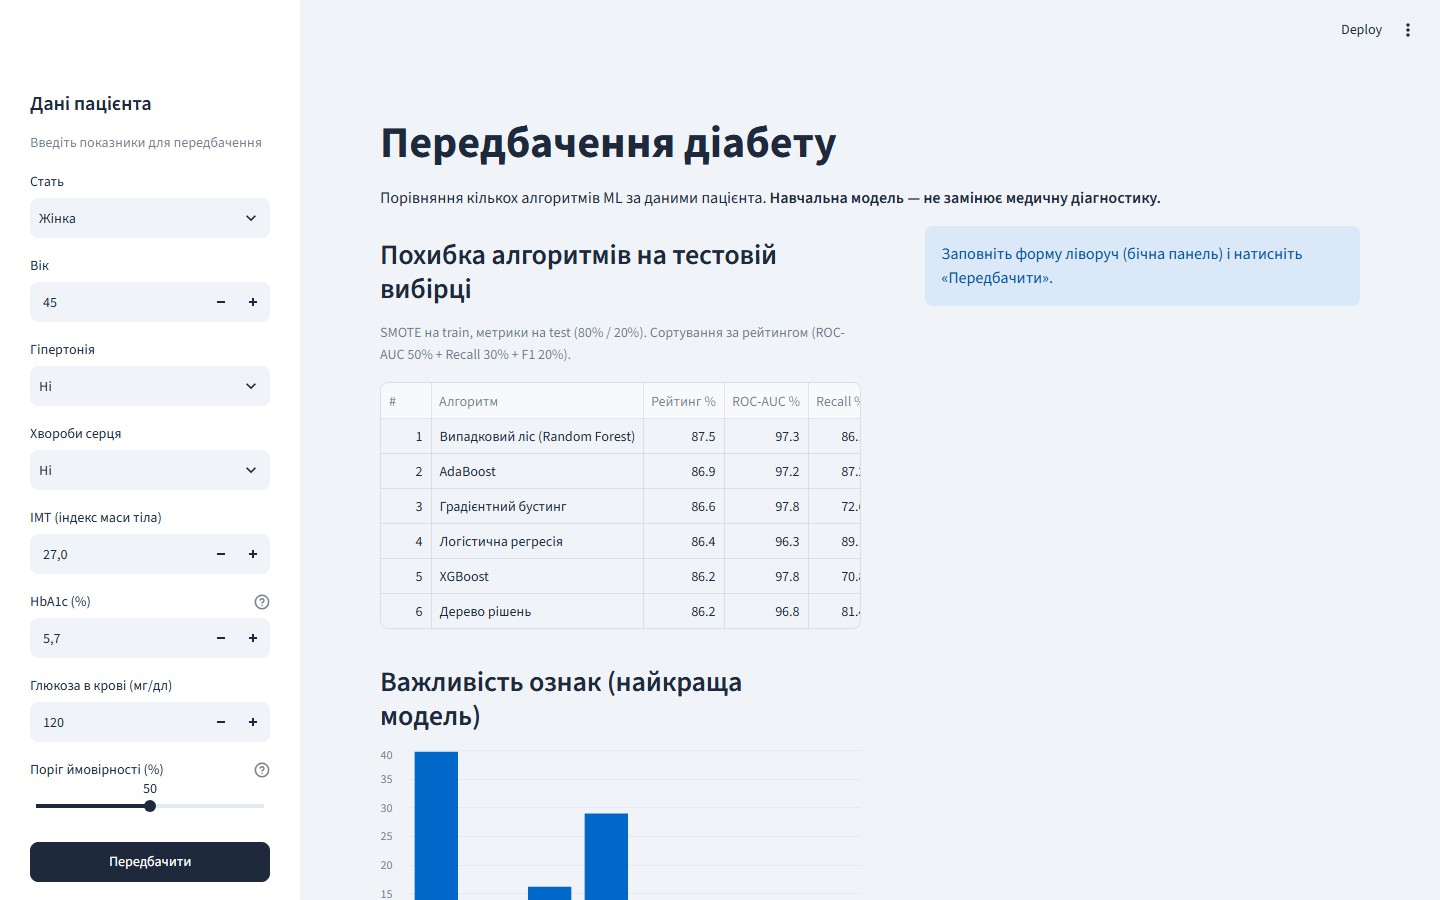
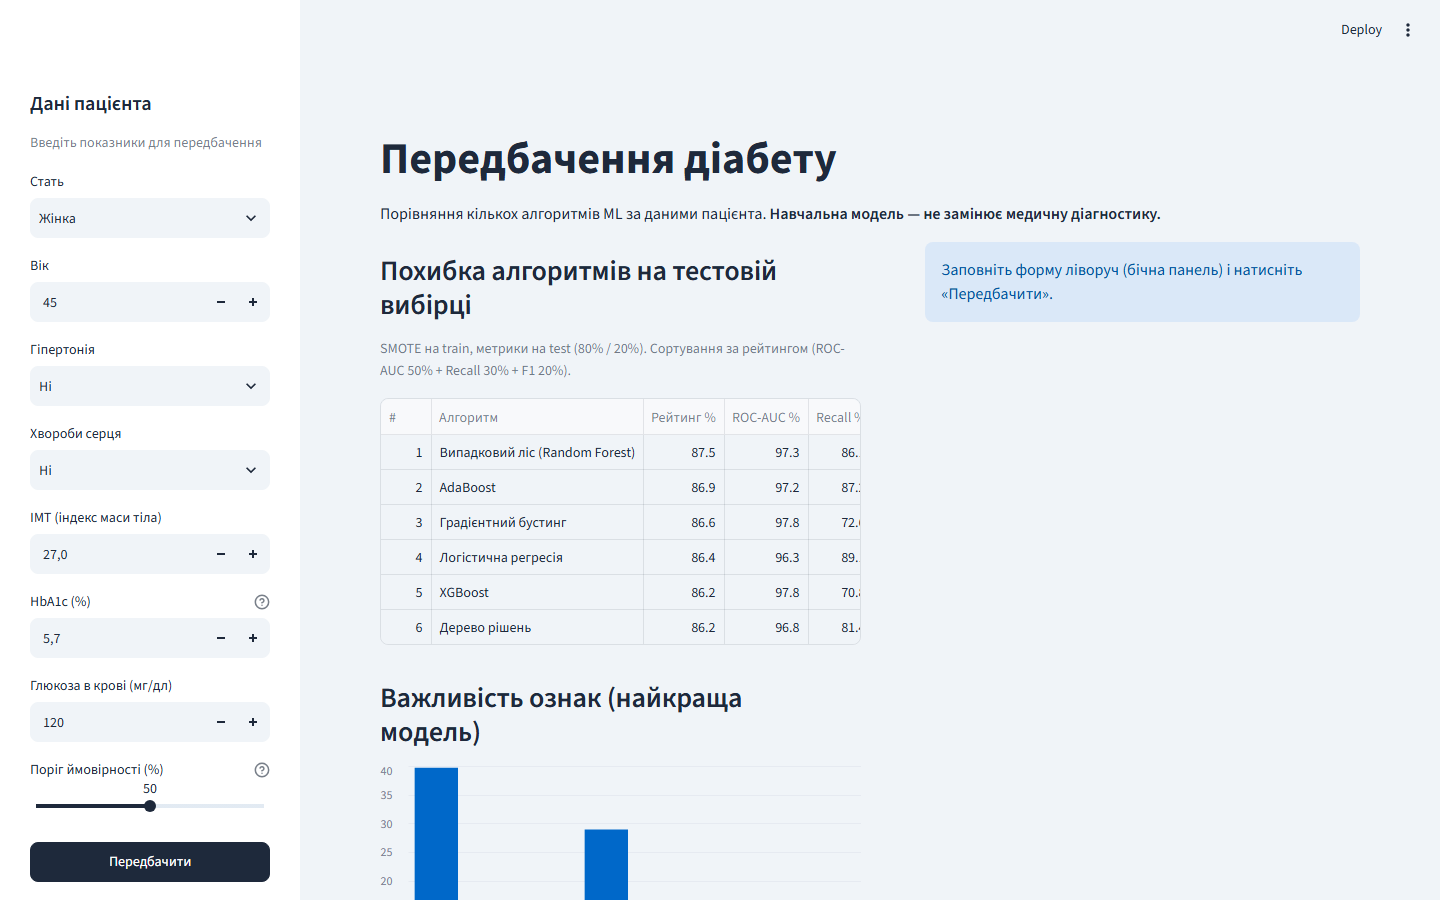
Add donut charts to Streamlit UI and refresh screenshots.
Replace Streamlit README images and add HTML donut components matching the Flask design.

diff --git a/streamlit_app.py b/streamlit_app.py
@@ -33,6 +33,97 @@ from predict_diabetes import (
 )
 from validators import validate_person_data
 
+# Стилі donut-діаграм (узгоджено з static/style.css у Flask UI).
+DONUT_CHART_STYLES = """
+<style>
+.st-donut-wrap {
+  display: flex;
+  justify-content: center;
+  margin: 0.75rem 0;
+}
+.st-donut {
+  --percent: 0;
+  --threshold: 50;
+  --fill: #2dd4bf;
+  position: relative;
+  width: var(--size);
+  height: var(--size);
+  border-radius: 50%;
+  background: conic-gradient(
+    from 180deg,
+    var(--fill) 0%,
+    var(--fill) calc(var(--percent) * 1%),
+    #1e293b calc(var(--percent) * 1%),
+    #1e293b 100%
+  );
+  display: flex;
+  align-items: center;
+  justify-content: center;
+  box-shadow: 0 4px 16px rgba(30, 41, 59, 0.1);
+}
+.st-donut-positive { --fill: #f97316; }
+.st-donut-threshold {
+  position: absolute;
+  inset: 0;
+  width: 100%;
+  height: 100%;
+  z-index: 2;
+  pointer-events: none;
+}
+.st-donut-threshold line {
+  stroke: #dc2626;
+  stroke-width: 2;
+  stroke-linecap: round;
+}
+.st-donut-hole {
+  position: relative;
+  z-index: 3;
+  width: var(--hole);
+  height: var(--hole);
+  background: #fff;
+  border-radius: 50%;
+  display: flex;
+  flex-direction: column;
+  align-items: center;
+  justify-content: center;
+  gap: 0.15rem;
+}
+.st-donut-value {
+  font-size: var(--value-size);
+  font-weight: 700;
+  color: #0f172a;
+  line-height: 1;
+}
+.st-donut-label {
+  font-size: var(--label-size);
+  color: #334155;
+  text-align: center;
+}
+.st-result-label {
+  text-align: center;
+  font-size: 1.5rem;
+  font-weight: 700;
+  margin: 0.25rem 0 0.5rem;
+}
+.st-result-negative { color: #15803d; }
+.st-result-positive { color: #c2410c; }
+.st-model-card {
+  text-align: center;
+  padding: 1rem 0.5rem;
+  border-radius: 12px;
+  margin-bottom: 0.5rem;
+}
+.st-model-card-negative {
+  background: #eef6f8;
+  border: 1px solid #cfe8ee;
+}
+.st-model-card-positive {
+  background: #fff7ed;
+  border: 1px solid #fed7aa;
+}
+</style>
+"""
+
 # Метадані сторінки Streamlit Cloud.
 st.set_page_config(
     page_title="Передбачення діабету",
@@ -106,6 +197,62 @@ def load_importance_table() -> pd.DataFrame:
         "Ознака": frame["label_uk"],
         "Важливість %": (frame["importance"] * 100).round(1),
     })
+
+
+def build_donut_html(
+    percent: int,
+    threshold_percent: int,
+    donut_label: str,
+    is_positive: bool,
+    *,
+    small: bool = False,
+) -> str:
+    """
+    Генерує HTML donut-діаграми з червоною лінією порогу.
+
+    Відлік дуги й порогу починається знизу (6 год.) за годинниковою стрілкою,
+    як у Flask-інтерфейсі.
+
+    Args:
+        percent: Ймовірність у відсотках (0–100).
+        threshold_percent: Поріг у відсотках (0–100).
+        donut_label: Підпис у центрі діаграми.
+        is_positive: Чи результат «Так» (помаранчева дуга).
+        small: Менший розмір для карток алгоритмів.
+
+    Returns:
+        HTML-рядок для st.markdown(..., unsafe_allow_html=True).
+    """
+    size = 140 if small else 180
+    hole = 100 if small else 132
+    value_size = "1.75rem" if small else "2.25rem"
+    label_size = "0.85rem" if small else "0.95rem"
+    positive_class = " st-donut-positive" if is_positive else ""
+    threshold_rotation = threshold_percent * 3.6
+
+    return f"""
+<div class="st-donut-wrap">
+  <div
+    class="st-donut{positive_class}"
+    style="--percent: {percent}; --threshold: {threshold_percent};
+           --size: {size}px; --hole: {hole}px;
+           --value-size: {value_size}; --label-size: {label_size};"
+    role="img"
+    aria-label="Ймовірність {percent} відсотків, поріг {threshold_percent} відсотків"
+  >
+    <svg class="st-donut-threshold" viewBox="0 0 100 100" aria-hidden="true">
+      <line
+        x1="50" y1="50" x2="50" y2="90"
+        transform="rotate({threshold_rotation} 50 50)"
+      />
+    </svg>
+    <div class="st-donut-hole">
+      <span class="st-donut-value">{percent}%</span>
+      <span class="st-donut-label">{donut_label}</span>
+    </div>
+  </div>
+</div>
+"""
 
 
 def render_sidebar_form() -> tuple[dict | None, float, bool]:
@@ -240,20 +387,31 @@ def render_prediction(person: dict, threshold: float) -> None:
     summary = prediction["summary"]
     models = prediction["models"]
     threshold_percent = int(threshold * 100)
+    summary_percent = int(round(float(summary["probability"]) * 100))
+    summary_positive = summary["diabetes"] == 1
 
     st.subheader("Загальний підсумок")
-    col_a, col_b, col_c = st.columns(3)
-    col_a.metric("Результат", summary["label"])
-    col_b.metric(
-        "Середня ймовірність",
-        f"{summary['probability'] * 100:.0f}%",
+    st.markdown(
+        build_donut_html(
+            summary_percent,
+            threshold_percent,
+            "середня ймовірність",
+            summary_positive,
+        ),
+        unsafe_allow_html=True,
     )
-    col_c.metric("Поріг", f"{threshold_percent}%")
+    result_class = "st-result-positive" if summary_positive else "st-result-negative"
+    st.markdown(
+        f'<p class="st-result-label {result_class}">{summary["label"]}</p>',
+        unsafe_allow_html=True,
+    )
     st.caption(summary["votes_text"])
-    st.progress(min(1.0, max(0.0, float(summary["probability"]))))
+    st.caption(f"Поріг: {threshold_percent}% (вище = «Так», відлік знизу)")
 
     st.subheader("Результати за алгоритмами")
-    st.caption(f"Червона лінія порогу: {threshold_percent}% (вище = «Так»)")
+    st.caption(
+        f"Червона лінія — поріг {threshold_percent}% (вище = «Так», відлік знизу)"
+    )
 
     columns = st.columns(3)
     for index, item in enumerate(models):
@@ -265,16 +423,40 @@ def render_prediction(person: dict, threshold: float) -> None:
                 title += " · найкраща"
 
             probability = float(item["probability"])
-            st.markdown(f"**{title}**")
-            st.metric("Ймовірність", f"{probability * 100:.0f}%", item["label"])
-            st.progress(min(1.0, max(0.0, probability)))
+            percent = int(round(probability * 100))
+            is_positive = item["diabetes"] == 1
+            card_class = (
+                "st-model-card-positive" if is_positive else "st-model-card-negative"
+            )
+
+            st.markdown(
+                f'<div class="st-model-card {card_class}"><strong>{title}</strong></div>',
+                unsafe_allow_html=True,
+            )
+            st.markdown(
+                build_donut_html(
+                    percent,
+                    threshold_percent,
+                    "ймовірність",
+                    is_positive,
+                    small=True,
+                ),
+                unsafe_allow_html=True,
+            )
+            item_result_class = (
+                "st-result-positive" if is_positive else "st-result-negative"
+            )
+            st.markdown(
+                f'<p class="st-result-label {item_result_class}">{item["label"]}</p>',
+                unsafe_allow_html=True,
+            )
             if item.get("error_rate") is not None:
                 st.caption(f"Похибка на тесті: {item['error_rate'] * 100:.1f}%")
-            st.divider()
 
 
 def main() -> None:
     """Головна сторінка Streamlit-додатка."""
+    st.markdown(DONUT_CHART_STYLES, unsafe_allow_html=True)
     st.title("Передбачення діабету")
     st.markdown(
         "Порівняння кількох алгоритмів ML за даними пацієнта. "

diff --git a/tests/test_streamlit_app.py b/tests/test_streamlit_app.py
@@ -24,3 +24,32 @@ def test_ensure_models_ready_when_file_exists(tmp_path):
     with patch.object(streamlit_app, "MODELS_BUNDLE_PATH", model_file):
         streamlit_app.ensure_models_ready.clear()
         assert streamlit_app.ensure_models_ready() is True
+
+
+def test_build_donut_html_contains_threshold_and_percent():
+    """Donut HTML містить відсоток, поріг і SVG-лінію."""
+    html = streamlit_app.build_donut_html(
+        percent=37,
+        threshold_percent=50,
+        donut_label="ймовірність",
+        is_positive=False,
+        small=True,
+    )
+
+    assert "37%" in html
+    assert "rotate(180" in html
+    assert "st-donut-positive" not in html
+    assert "ймовірність" in html
+
+
+def test_build_donut_html_positive_uses_orange_class():
+    """Позитивний результат додає клас st-donut-positive."""
+    html = streamlit_app.build_donut_html(
+        percent=65,
+        threshold_percent=30,
+        donut_label="середня ймовірність",
+        is_positive=True,
+    )
+
+    assert "st-donut-positive" in html
+    assert "65%" in html

diff --git a/README.md b/README.md
@@ -14,7 +14,7 @@
 
 #### Результати передбачення
 
-![Streamlit: загальний підсумок і порівняння моделей](docs/screenshots/streamlit-02-prediction-results.png)
+![Streamlit: donut-діаграми, підсумок і порівняння моделей](docs/screenshots/streamlit-02-prediction-results.png)
 
 ### Flask
 